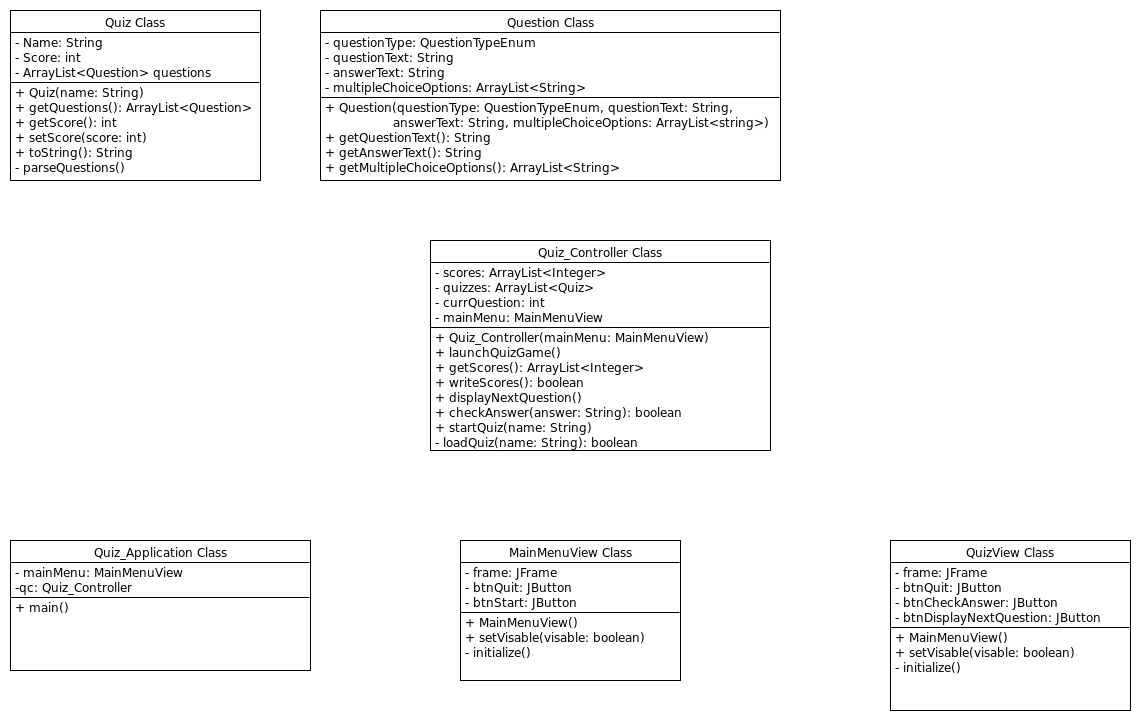
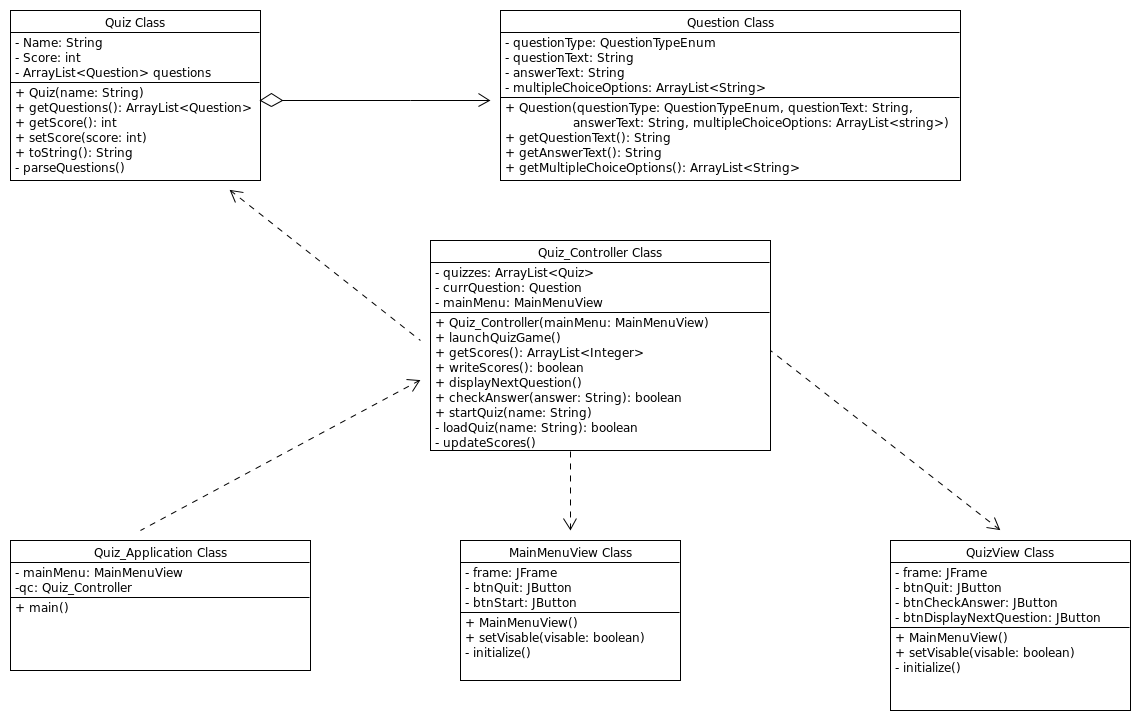
Updated UML and Quiz_Controller per instructors remarks

diff --git a/src/controller/Quiz_Controller.java b/src/controller/Quiz_Controller.java
@@ -1,17 +1,16 @@
 package controller;
 
 import java.util.ArrayList;
-
 import java.awt.EventQueue;
 
 import view.MainMenuView;
+import model.Question;
 import model.Quiz;
 
 public class Quiz_Controller {
 
   private ArrayList<Quiz> quizzes;
-  private ArrayList<Integer> scores;
-  private int currQuestion;
+  private Question currQuestion;
   private MainMenuView mainMenu;
   
   public Quiz_Controller(MainMenuView mainMenu) {
